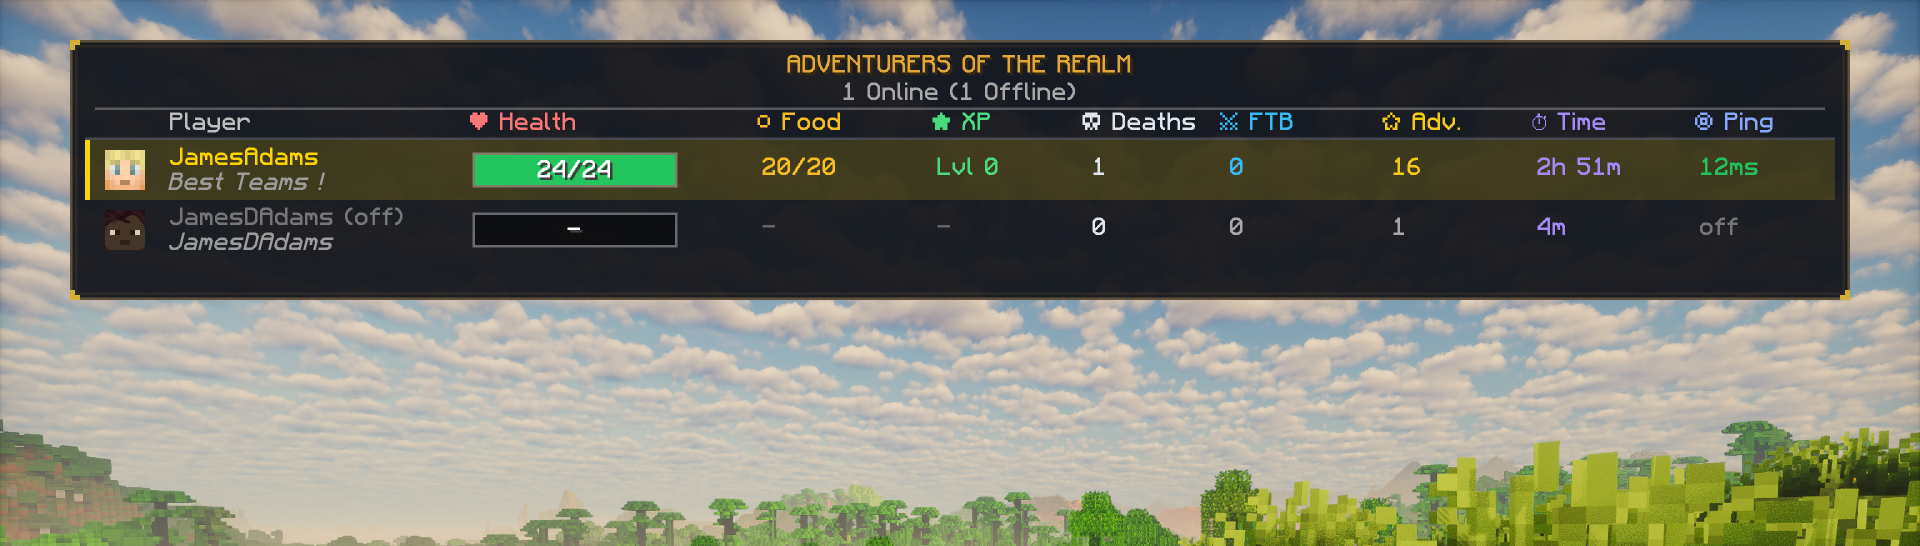
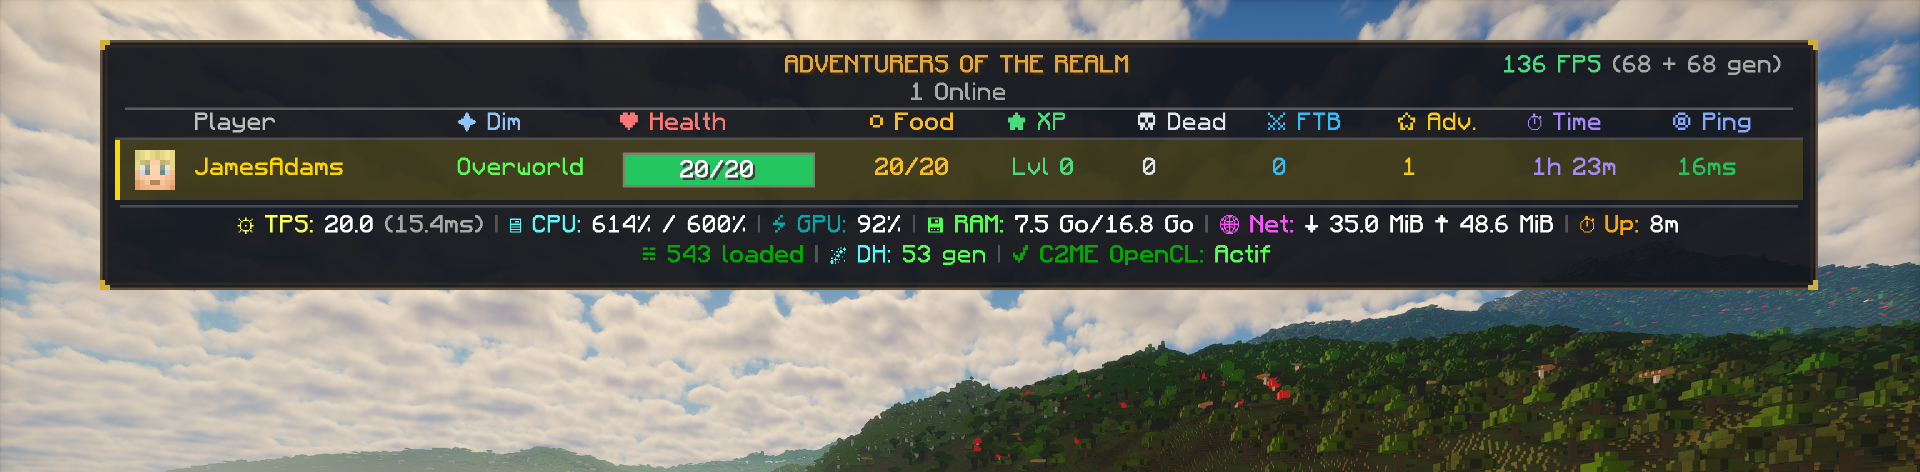
docs: update README with full compatibility matrix, replace preview image, bump version to 1.33.0

diff --git a/README.fr-FR.md b/README.fr-FR.md
@@ -16,26 +16,29 @@ Un remplacement soigné et hautement personnalisable de la liste des joueurs (me
 - **Statistiques Complètes par Joueur** :
   - **Tête du Joueur** : Avatar dynamique du skin.
   - **Nom de la Team FTB** : Affiche le nom de l'équipe FTB Teams en italique sous le pseudo du joueur (ex: *MaTeam*) uniquement lorsque le joueur appartient à une équipe.
-  - **Dimension du Joueur** : Affiche la dimension actuelle de chaque joueur (Overworld, Nether, End, ou dimension de mod personnalisée).
-  - **Barre de Vie Intégrée** : Remplissage dynamique avec affichage direct des PV au centre (ex: `24/24`) et couleur adaptative (vert > orange > rouge).
+  - **Dimension du Joueur** : Affiche la dimension actuelle de chaque joueur (`✦ Dim`: Overworld, Nether, End, ou dimension de mod personnalisée).
+  - **Barre de Vie Intégrée** : Remplissage dynamique avec affichage direct des PV au centre (ex: `20/20`) et couleur adaptative (vert > orange > rouge).
   - **Nourriture** : Niveau de faim sous forme `20/20`.
   - **Niveau d'XP** : Affiché sous forme `Lvl X`.
-  - **Compteur de Morts** : Statistique vanille officielle des morts.
+  - **Compteur de Morts** : Statistique vanille officielle des morts (`Dead X`).
   - **Quêtes FTB Quests** : Nombre de quêtes terminées par joueur/équipe (support souple sans crash si le mod est absent).
   - **Progrès / Advancements** : Nombre d'avancements débloqués (les recettes de craft sont exclues).
-  - **Temps de Jeu** : Temps passé sur le serveur formaté (ex: `2h 15m`).
+  - **Temps de Jeu** : Temps passé sur le serveur formaté (ex: `1h 23m`).
   - **Latence / Ping** : Ping en millisecondes avec code couleur.
 - **Performances & Client** :
-  - **FPS Client** : Compteur de FPS en temps réel en haut à droite du menu TAB, compatible avec **NeoForge GGTU (Resolution Scaler)** pour afficher les FPS réels et les frames générées (ex: `144 FPS (48 + 96 gen)`).
+  - **FPS Client** : Compteur de FPS en temps réel en haut à droite du menu TAB, compatible avec **NeoForge GGTU (Resolution Scaler)** pour afficher les FPS réels et les frames générées (ex: `136 FPS (68 + 68 gen)`).
 - **Métriques Matérielles & Réseau du Serveur (Footer)** :
-  - Affichage en temps réel des **TPS & MSPT** avec indicateurs de couleur.
-  - Utilisation du **CPU** du serveur rapportée au nombre de cœurs alloués au conteneur (ex: `77% / 600%`).
-  - **Accélération GPU** : Affiche la charge GPU en pourcentage (`⚡ GPU: 0%`).
-  - Consommation **RAM & Swap** du conteneur (ex: `4.8 Go/16.8 Go (Swap: 0.0 Go/8.0 Go)`).
-  - Débit **Réseau** conteneur en temps réel (via `/proc/net/dev` et l'API Pelican).
-  - **Chunks Serveur** : Total des chunks chargés sur le serveur et chunks en cours de génération (Vanilla + Distant Horizons).
-  - **Uptime** du serveur depuis le dernier reboot (⏱ Up:).
-  - **Statuts C2ME OpenCL, Distant Horizons & SeedGen** : Témoins en direct confirmant l'activité des moteurs de génération.
+  - **Ligne 1 (Matériel & Réseau)** :
+    - Affichage en temps réel des **TPS & MSPT** (`☼ TPS: 20.0 (15.4ms)`).
+    - Utilisation du **CPU** du serveur rapportée au nombre de cœurs alloués au conteneur (`🖥 CPU: 614% / 600%`).
+    - Charge du **GPU** en pourcentage en direct (`⚡ GPU: 92%`).
+    - Consommation **RAM & Swap** du conteneur (`💾 RAM: 7.5 Go/16.8 Go`, swap masqué si non utilisé).
+    - Trafic cumulé **Réseau** en temps réel synchronisé avec Pelican (`🌐 Net: ↓ 35.0 MiB ↑ 48.6 MiB`).
+    - **Uptime** du serveur depuis le dernier reboot (`⏱ Up: 8m`).
+  - **Ligne 2 (Génération & Moteurs du Monde)** :
+    - Nombre de **Chunks Chargés** sur le serveur (`☵ 543 loaded`).
+    - Suivi en temps réel de la file de génération **Distant Horizons (DH)** (`🌌 DH: 53 gen`).
+    - État d'accélération **C2ME OpenCL** (`✔ C2ME OpenCL: Actif`).
 - **Support des Joueurs Hors-Ligne** :
   - Affiche les statistiques des joueurs ayant déjà joué sur le serveur même lorsqu'ils sont déconnectés (temps de jeu, morts, quêtes FTB, avancements JSON).
 - **Configuration Serveur Complète** (`config/rpgtab-server.toml`) :
@@ -51,12 +54,12 @@ RPG Tab Overlay intègre une compatibilité douce native (réflexion sans dépen
 
 | Mod | Plateforme | Rôle & Intégration |
 |---|---|---|
-| **NeoForge GGTU (Resolution Scaler)** | Client | Affiche le compteur de FPS avec distinction entre images réelles et frames générées (`144 FPS (48 + 96 gen)`). |
+| **NeoForge GGTU (Resolution Scaler)** | Client | Affiche le compteur de FPS avec distinction entre images réelles et frames générées (`136 FPS (68 + 68 gen)`). |
 | **FTB Teams** | Serveur / Client | Détecte automatiquement l'équipe et affiche son nom en italique sous le pseudo. |
 | **FTB Quests** | Serveur / Client | Affiche le total de quêtes accomplies par joueur ou équipe en temps réel. |
-| **C2ME (OpenCL Acceleration Module)** | Serveur | Détecte le GPU OpenCL, le contexte de calcul et son statut d'accélération. |
-| **Distant Horizons (DH)** | Client / Serveur | Affiche le statut du serveur et suit les chunks LOD dans la file de génération. |
-| **Distant Horizons SeedGen** | Serveur | Détecte l'état du moteur SeedGen et vérifie les conditions d'incompatibilité de terrain. |
+| **C2ME (OpenCL Acceleration Module)** | Serveur | Détecte le GPU OpenCL, le contexte de calcul, la charge et son statut d'accélération. |
+| **Distant Horizons (DH)** | Client / Serveur | Affiche le statut du serveur et suit les chunks LOD dans la file de génération (`🌌 DH: X gen`). |
+| **Distant Horizons SeedGen** | Serveur | Détecte l'état du moteur SeedGen et vérifie la compatibilité du terrain. |
 | **Pelican / Pterodactyl Panel** | Hébergeur / Serveur | Intégration API HTTP en direct pour interroger le quota CPU, la RAM, le swap conteneur et le trafic réseau. |
 
 ---
@@ -85,4 +88,4 @@ Nécessite Java 21 LTS (OpenJDK ou Zulu) :
 ```powershell
 powershell -ExecutionPolicy Bypass -File build.ps1
 ```
-Le fichier JAR sera généré dans `build/` sous le nom `rpgtab-1.32.0-neoforge-1.21.1.jar`.
+Le fichier JAR sera généré dans `build/` sous le nom `rpgtab-1.33.0-neoforge-1.21.1.jar`.

diff --git a/README.md b/README.md
@@ -16,26 +16,29 @@ A clean, highly customizable RPG-themed player list (TAB menu) replacement for M
 - **Comprehensive Player Stats**:
   - **Player Avatar**: Dynamic player skin head rendering.
   - **FTB Team Name**: Displays the player's FTB Team name in italics directly below their username (e.g., *MyTeam*) only when the player belongs to a team.
-  - **Player Dimension**: Displays each player's current dimension (Overworld, Nether, End, or custom mod dimension).
-  - **Dynamic Health Bar**: Visual fill bar with exact numerical HP centered inside (e.g., `24/24`) and smooth color adaptation (green > orange > red).
+  - **Player Dimension**: Displays each player's current dimension (`✦ Dim`: Overworld, Nether, End, or custom mod dimension).
+  - **Dynamic Health Bar**: Visual fill bar with exact numerical HP centered inside (e.g., `20/20`) and smooth color adaptation (green > orange > red).
   - **Food Level**: Hunger points displayed as `20/20`.
   - **XP Level**: Experience level formatted as `Lvl X`.
-  - **Deaths Counter**: Vanilla statistics death count tracking.
+  - **Deaths Counter**: Vanilla statistics death count tracking (`Dead X`).
   - **FTB Quests**: Total completed quests per team/player (safe reflection fallback if FTB Quests is not installed).
   - **Advancements**: Unlocked achievements count (crafting recipes are filtered out).
-  - **Server Play Time**: Formatted total playtime (e.g., `2h 15m`).
+  - **Server Play Time**: Formatted total playtime (e.g., `1h 23m`).
   - **Latency / Ping**: Color-coded ping in milliseconds.
 - **Client & Performance**:
-  - **Client FPS**: Real-time FPS counter in the top-right corner of the TAB menu, fully compatible with **NeoForge GGTU (Resolution Scaler)** frame generation (displays total FPS, real frames, and generated frames).
+  - **Client FPS**: Real-time FPS counter in the top-right corner of the TAB menu, fully compatible with **NeoForge GGTU (Resolution Scaler)** frame generation (displays total FPS, real frames, and generated frames, e.g. `136 FPS (68 + 68 gen)`).
 - **Server Hardware & Network Metrics (Footer)**:
-  - Real-time **TPS & MSPT** display with color indicators.
-  - Server **CPU usage** percentage formatted against container allocated cores (e.g. `77% / 600%`).
-  - **GPU Acceleration**: Displays the GPU load percentage (`⚡ GPU: 0%`).
-  - Allocated & container cgroup **RAM & Swap** usage (e.g. `4.8 Go/16.8 Go (Swap: 0.0 Go/8.0 Go)`).
-  - Real-time **Network throughput & transfer totals** (current speed in Ko/s or Mo/s via `/proc/net/dev` and Pelican).
-  - Real-time **Server Chunks**: Total loaded chunks on the server and real-time generating chunks (Vanilla + Distant Horizons).
-  - Server **Uptime** since last reboot (⏱ Up:).
-  - **C2ME OpenCL, Distant Horizons & SeedGen status**: Live indicators showing whether background chunk generation engines are active.
+  - **Line 1 (Core Hardware & Network)**:
+    - Real-time **TPS & MSPT** display (`☼ TPS: 20.0 (15.4ms)`).
+    - Server **CPU usage** percentage against container allocated quota cores (`🖥 CPU: 614% / 600%`).
+    - Real-time **GPU load** percentage (`⚡ GPU: 92%`).
+    - Allocated & container cgroup **RAM & Swap** usage (`💾 RAM: 7.5 Go/16.8 Go`, swap displayed only when active).
+    - Real-time **Network cumulative data transfer** matching Pelican dashboard (`🌐 Net: ↓ 35.0 MiB ↑ 48.6 MiB`).
+    - Server **Uptime** since last reboot (`⏱ Up: 8m`).
+  - **Line 2 (World Generation & Engine Status)**:
+    - Real-time **Server Loaded Chunks** (`☵ 543 loaded`).
+    - **Distant Horizons (DH)** real-time generation queue tracking (`🌌 DH: 53 gen`).
+    - **C2ME OpenCL** GPU Acceleration Module status (`✔ C2ME OpenCL: Actif`).
 - **Offline Players Support**:
   - Displays data for previously connected players who are currently offline (play time, deaths, FTB quests, and JSON advancements).
 - **Server Configuration** (`config/rpgtab-server.toml`):
@@ -51,12 +54,12 @@ RPG Tab Overlay includes built-in soft compatibility (safe reflection hooks that
 
 | Mod | Platform | Feature & Integration |
 |---|---|---|
-| **NeoForge GGTU (Resolution Scaler)** | Client | Displays real-time FPS with breakdown of native rendering frames and interpolated/generated frames (e.g. `144 FPS (48 + 96 gen)`). |
+| **NeoForge GGTU (Resolution Scaler)** | Client | Displays real-time FPS with breakdown of native rendering frames and interpolated/generated frames (e.g. `136 FPS (68 + 68 gen)`). |
 | **FTB Teams** | Server / Client | Automatically detects and formats party team names in italics directly under player usernames. |
 | **FTB Quests** | Server / Client | Displays total team / player completed quest counters in real-time. |
-| **C2ME (OpenCL Acceleration Module)** | Server | Detects GPU acceleration, OpenCL runtime device context, and acceleration status. |
-| **Distant Horizons (DH)** | Client / Server | Displays live Distant Horizons server-side status and tracks LOD chunk generation queues. |
-| **Distant Horizons SeedGen** | Server | Detects SeedGen world generation engine status and validates terrain stand-down conditions. |
+| **C2ME (OpenCL Acceleration Module)** | Server | Detects GPU acceleration, OpenCL runtime device context, real-time load, and acceleration status. |
+| **Distant Horizons (DH)** | Client / Server | Displays live Distant Horizons server-side status and tracks real-time LOD chunk generation queues (`🌌 DH: X gen`). |
+| **Distant Horizons SeedGen** | Server | Detects SeedGen world generation engine status and validates terrain compatibility. |
 | **Pelican / Pterodactyl Panel** | Server / Hosting | Live HTTP API integration to query real-time CPU quota, container cgroup RAM, container swap, and network I/O. |
 
 ---
@@ -85,4 +88,4 @@ Requires Java 21 LTS (OpenJDK or Zulu):
 ```powershell
 powershell -ExecutionPolicy Bypass -File build.ps1
 ```
-The compiled JAR will be output to `build/` as `rpgtab-1.32.0-neoforge-1.21.1.jar`.
+The compiled JAR will be output to `build/` as `rpgtab-1.33.0-neoforge-1.21.1.jar`.
